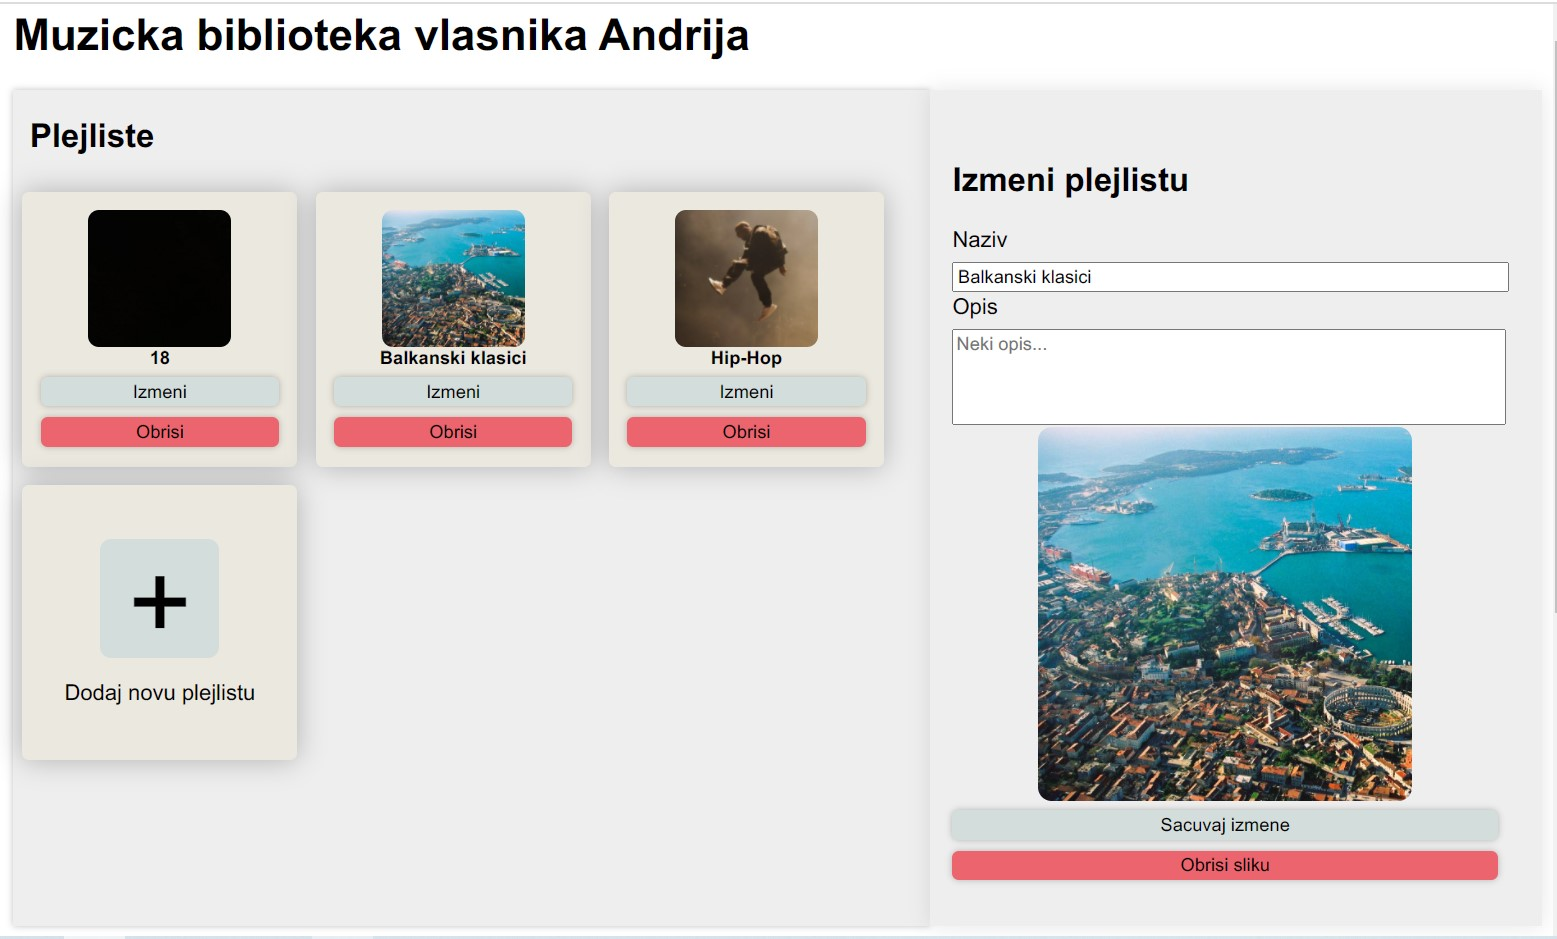
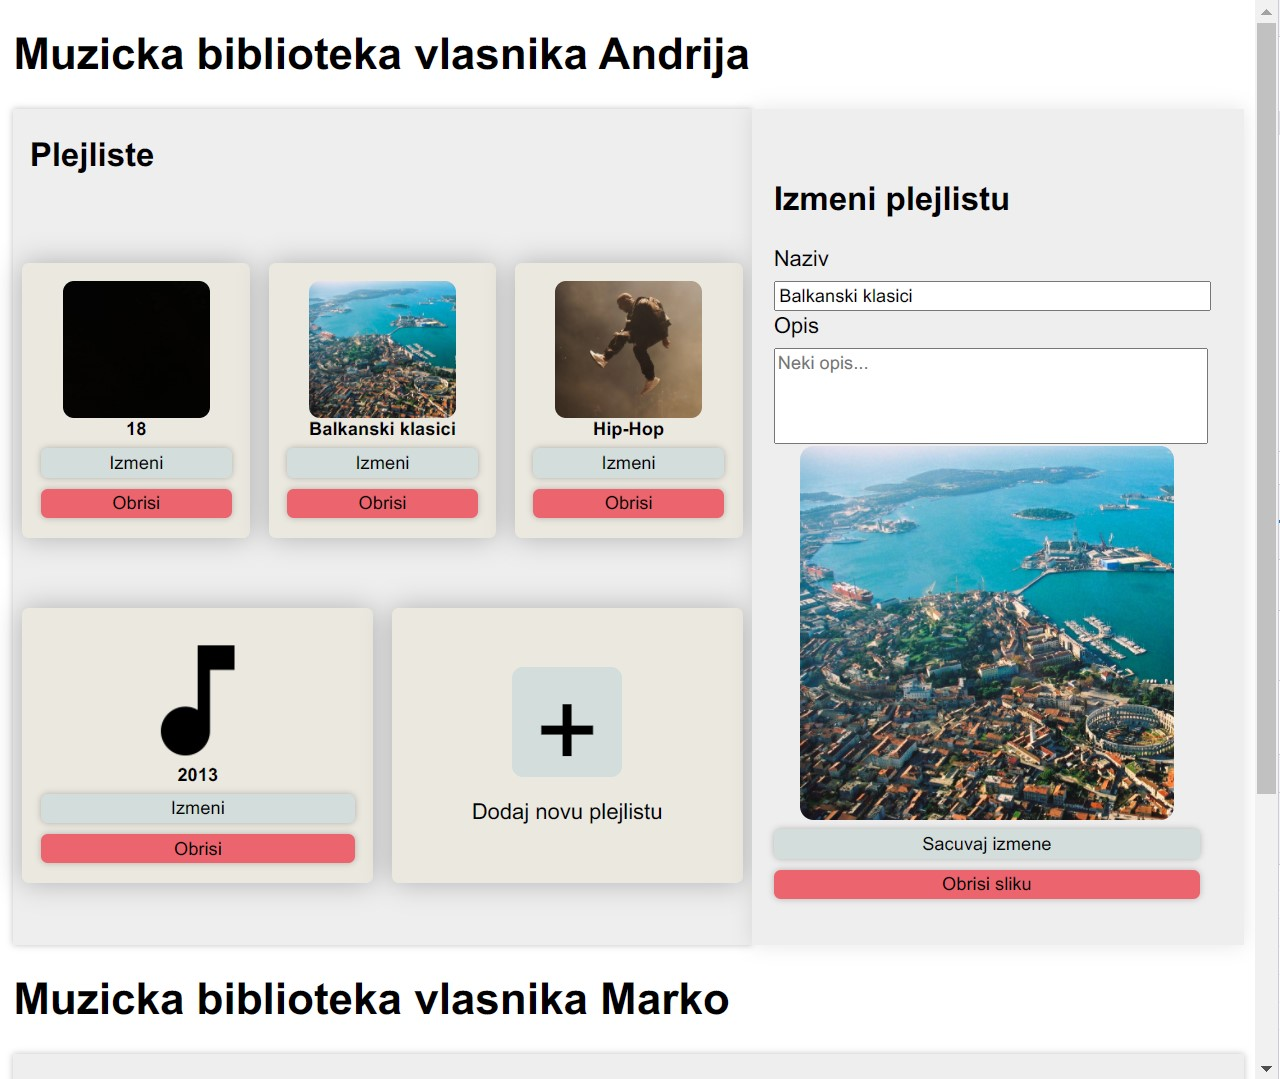
dokumentacija

diff --git a/Client/style.css b/Client/style.css
@@ -48,7 +48,7 @@ button {
     flex: 60%;
     flex-direction: row;
     flex-wrap: wrap;
-    align-content: flex-start;
+    align-items: stretch;
     box-shadow: 0px 0px 5px 0px rgba(0,0,0,0.25);
     z-index: 0;
 }
@@ -80,15 +80,13 @@ button {
 
 .playlistComponent, .addPlaylistComponent {
     display: flex;
-    flex-wrap: nowrap;
     flex-direction: column;
-    align-content: center;
-    flex: 0 0 auto;
+    flex: 1 1 10em;
     justify-content: center;
     align-items: center;
     background-color:  var(--main);
     width: 15em;
-    height: 15em;
+    height: 15em;  
     margin: .5em;
     padding: 1em;
     overflow: hidden;
@@ -109,8 +107,8 @@ button {
     justify-content: center;
     align-items: center;
     vertical-align: middle;
-    width: 60%;
-    height: 60%;
+    width: 8em;
+    height: 8em;
     border-radius: 8px;
     background-size: cover;
     background-repeat: no-repeat;
@@ -119,8 +117,8 @@ button {
 
 .addPlaylistImage {
     background-color: var(--light);
-    width: 50%;
-    height: 50%;
+    width: 1em;
+    height: 1em;
     font-size: 6em;
     font-weight: normal;
 }
